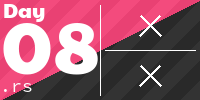
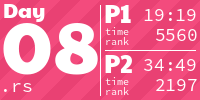
update readme for day 8

diff --git a/tiles/.aoc_tiles_cache/leaderboard2023.html b/tiles/.aoc_tiles_cache/leaderboard2023.html
@@ -1,0 +1,123 @@
+<!DOCTYPE html>
+<html lang="en-us">
+<head>
+<meta charset="utf-8"/>
+<title>Leaderboard - Advent of Code 2023</title>
+<link rel="stylesheet" type="text/css" href="/static/style.css?31"/>
+<link rel="stylesheet alternate" type="text/css" href="/static/highcontrast.css?1" title="High Contrast"/>
+<link rel="shortcut icon" href="/favicon.png"/>
+<script>window.addEventListener('click', function(e,s,r){if(e.target.nodeName==='CODE'&&e.detail===3){s=window.getSelection();s.removeAllRanges();r=document.createRange();r.selectNodeContents(e.target);s.addRange(r);}});</script>
+</head><!--
+
+
+
+
+Oh, hello!  Funny seeing you here.
+
+I appreciate your enthusiasm, but you aren't going to find much down here.
+There certainly aren't clues to any of the puzzles.  The best surprises don't
+even appear in the source until you unlock them for real.
+
+Please be careful with automated requests; I'm not a massive company, and I can
+only take so much traffic.  Please be considerate so that everyone gets to play.
+
+If you're curious about how Advent of Code works, it's running on some custom
+Perl code. Other than a few integrations (auth, analytics, social media), I
+built the whole thing myself, including the design, animations, prose, and all
+of the puzzles.
+
+The puzzles are most of the work; preparing a new calendar and a new set of
+puzzles each year takes all of my free time for 4-5 months. A lot of effort
+went into building this thing - I hope you're enjoying playing it as much as I
+enjoyed making it for you!
+
+If you'd like to hang out, I'm @ericwastl@hachyderm.io on Mastodon and
+@ericwastl on Twitter.
+
+- Eric Wastl
+
+
+
+
+
+
+
+
+
+
+
+
+
+
+
+
+
+
+
+
+
+
+
+
+
+
+
+
+
+
+
+
+
+
+
+
+
+
+
+
+
+
+
+
+
+
+
+
+
+
+-->
+<body>
+<header><div><h1 class="title-global"><a href="/">Advent of Code</a></h1><nav><ul><li><a href="/2023/about">[About]</a></li><li><a href="/2023/events">[Events]</a></li><li><a href="https://teespring.com/stores/advent-of-code" target="_blank">[Shop]</a></li><li><a href="/2023/settings">[Settings]</a></li><li><a href="/2023/auth/logout">[Log Out]</a></li></ul></nav><div class="user">Rietty <span class="star-count">16*</span></div></div><div><h1 class="title-event">&nbsp;<span class="title-event-wrap">{&apos;year&apos;:</span><a href="/2023">2023</a><span class="title-event-wrap">}</span></h1><nav><ul><li><a href="/2023">[Calendar]</a></li><li><a href="/2023/support">[AoC++]</a></li><li><a href="/2023/sponsors">[Sponsors]</a></li><li><a href="/2023/leaderboard">[Leaderboard]</a></li><li><a href="/2023/stats">[Stats]</a></li></ul></nav></div></header>
+
+<div id="sidebar">
+<div id="sponsor"><div class="quiet">Our <a href="/2023/sponsors">sponsors</a> help make Advent of Code possible:</div><div class="sponsor"><a href="https://www.smarty.com/advent-of-code" target="_blank" onclick="if(ga)ga('send','event','sponsor','sidebar',this.href);" rel="noopener">Smarty</a> - Join our private leaderboard and solve our puzzles for BIG PRIZES!!! ----------------- Address Validation and Autocomplete, and more!</div></div>
+</div><!--/sidebar-->
+
+<main>
+<article><p>These are your personal leaderboard times.  <em>Rank</em> is your position on that leaderboard: 1 means you were the first person to get that star, 2 means the second, 100 means the 100th, etc.  <em>Score</em> is the number of points you got for that rank: 100 for 1st, 99 for 2nd, ..., 1 for 100th, and 0 otherwise.</p><pre>      <span class="leaderboard-daydesc-first">--------Part 1--------</span>   <span class="leaderboard-daydesc-both">--------Part 2--------</span>
+Day   <span class="leaderboard-daydesc-first">    Time   Rank  Score</span>   <span class="leaderboard-daydesc-both">    Time   Rank  Score</span>
+  8   00:19:19   5560      0   00:34:49   2197      0
+  7   00:24:23   1521      0   00:52:15   2935      0
+  6   10:08:24  46239      0   10:33:25  45715      0
+  5   09:45:20  39246      0   10:11:26  19809      0
+  4   09:52:07  57166      0   11:58:42  51721      0
+  3   00:40:06   4531      0   00:41:43   2587      0
+  2   00:42:03   9133      0   00:46:46   8239      0
+  1   10:12:33  81062      0   10:51:27  54709      0
+</pre>
+</article>
+</main>
+
+<!-- ga -->
+<script>
+(function(i,s,o,g,r,a,m){i['GoogleAnalyticsObject']=r;i[r]=i[r]||function(){
+(i[r].q=i[r].q||[]).push(arguments)},i[r].l=1*new Date();a=s.createElement(o),
+m=s.getElementsByTagName(o)[0];a.async=1;a.src=g;m.parentNode.insertBefore(a,m)
+})(window,document,'script','//www.google-analytics.com/analytics.js','ga');
+ga('create', 'UA-69522494-1', 'auto');
+ga('set', 'anonymizeIp', true);
+ga('send', 'pageview');
+</script>
+<!-- /ga -->
+</body>
+</html>
